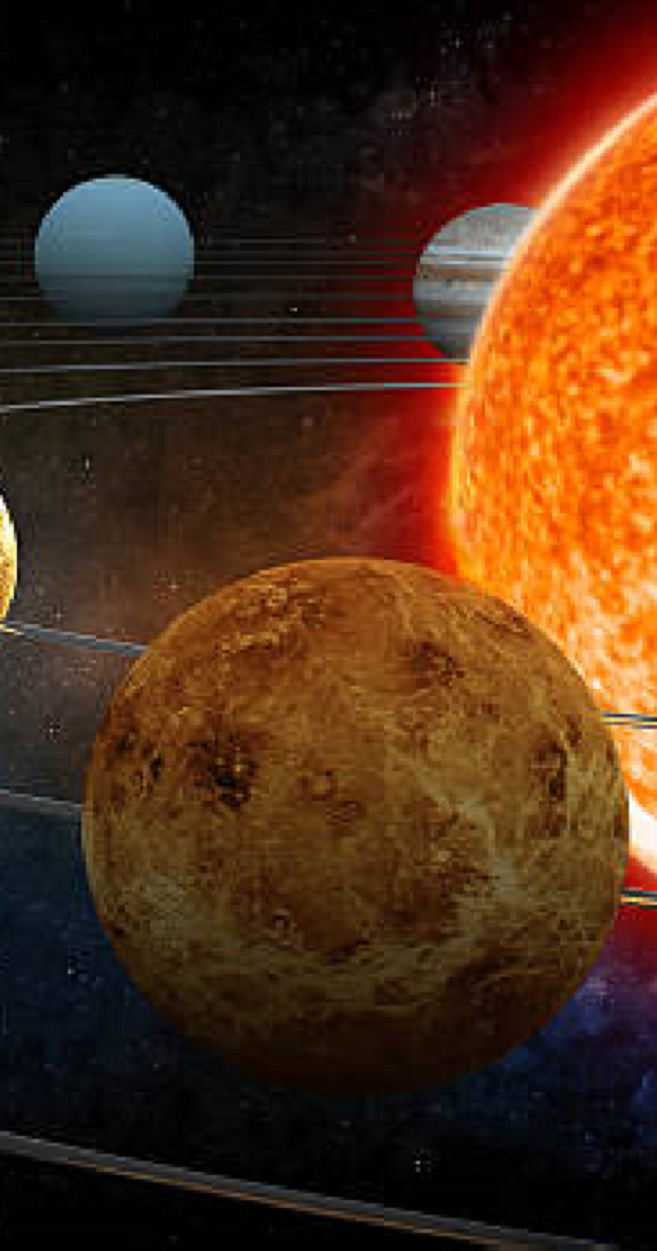
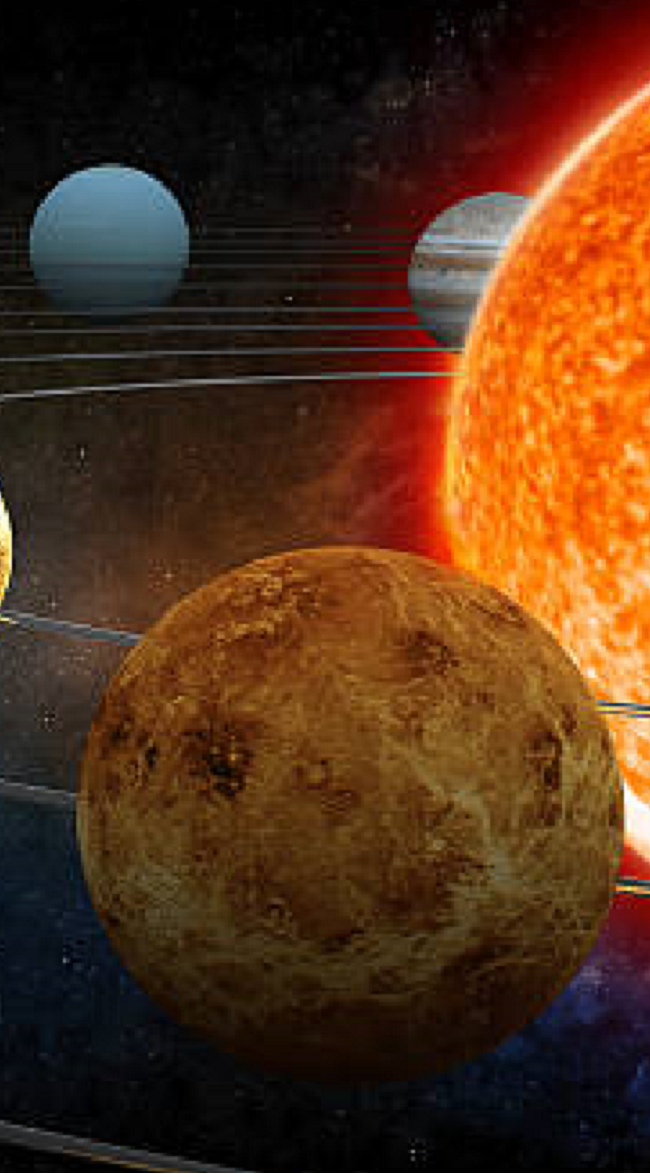
Add table of contents to README.md

diff --git a/views/layout.html b/views/layout.html
@@ -15,12 +15,12 @@
             background-image: url("https://raw.githubusercontent.com/Karasp1980/planets_quiz/main/assets/images/solar-system-large.png");
             background-size: cover;
         }
-
-        /* For screens sizes from 750 wide and down */
-        @media screen and (max-width: 750px){
+        
+        /* For screens sizes from 615 wide and down */
+        @media screen and (max-width: 615px){
             body{
                 background-image: url("https://raw.githubusercontent.com/Karasp1980/planets_quiz/main/assets/images/solar-system-small.png");
-                background-size: cover;
+                background-size: auto;
         
                 
             }
